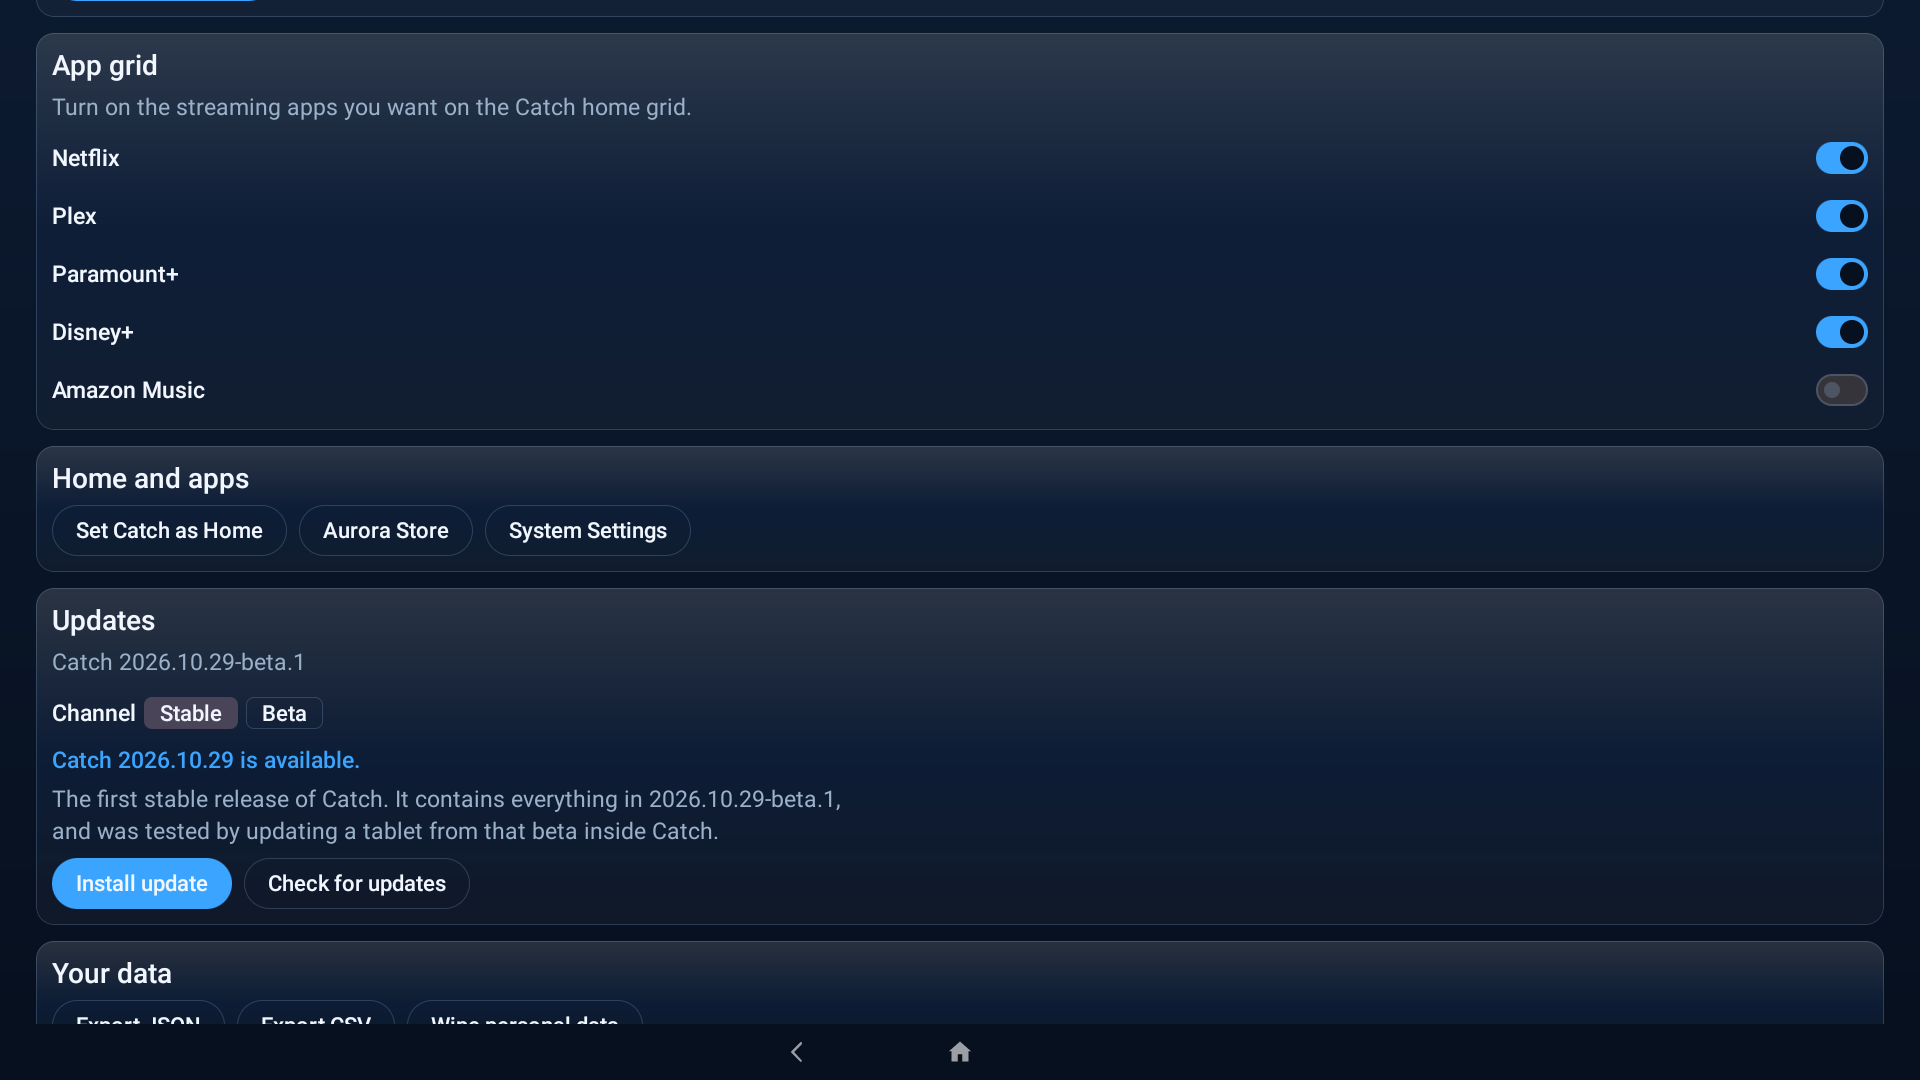
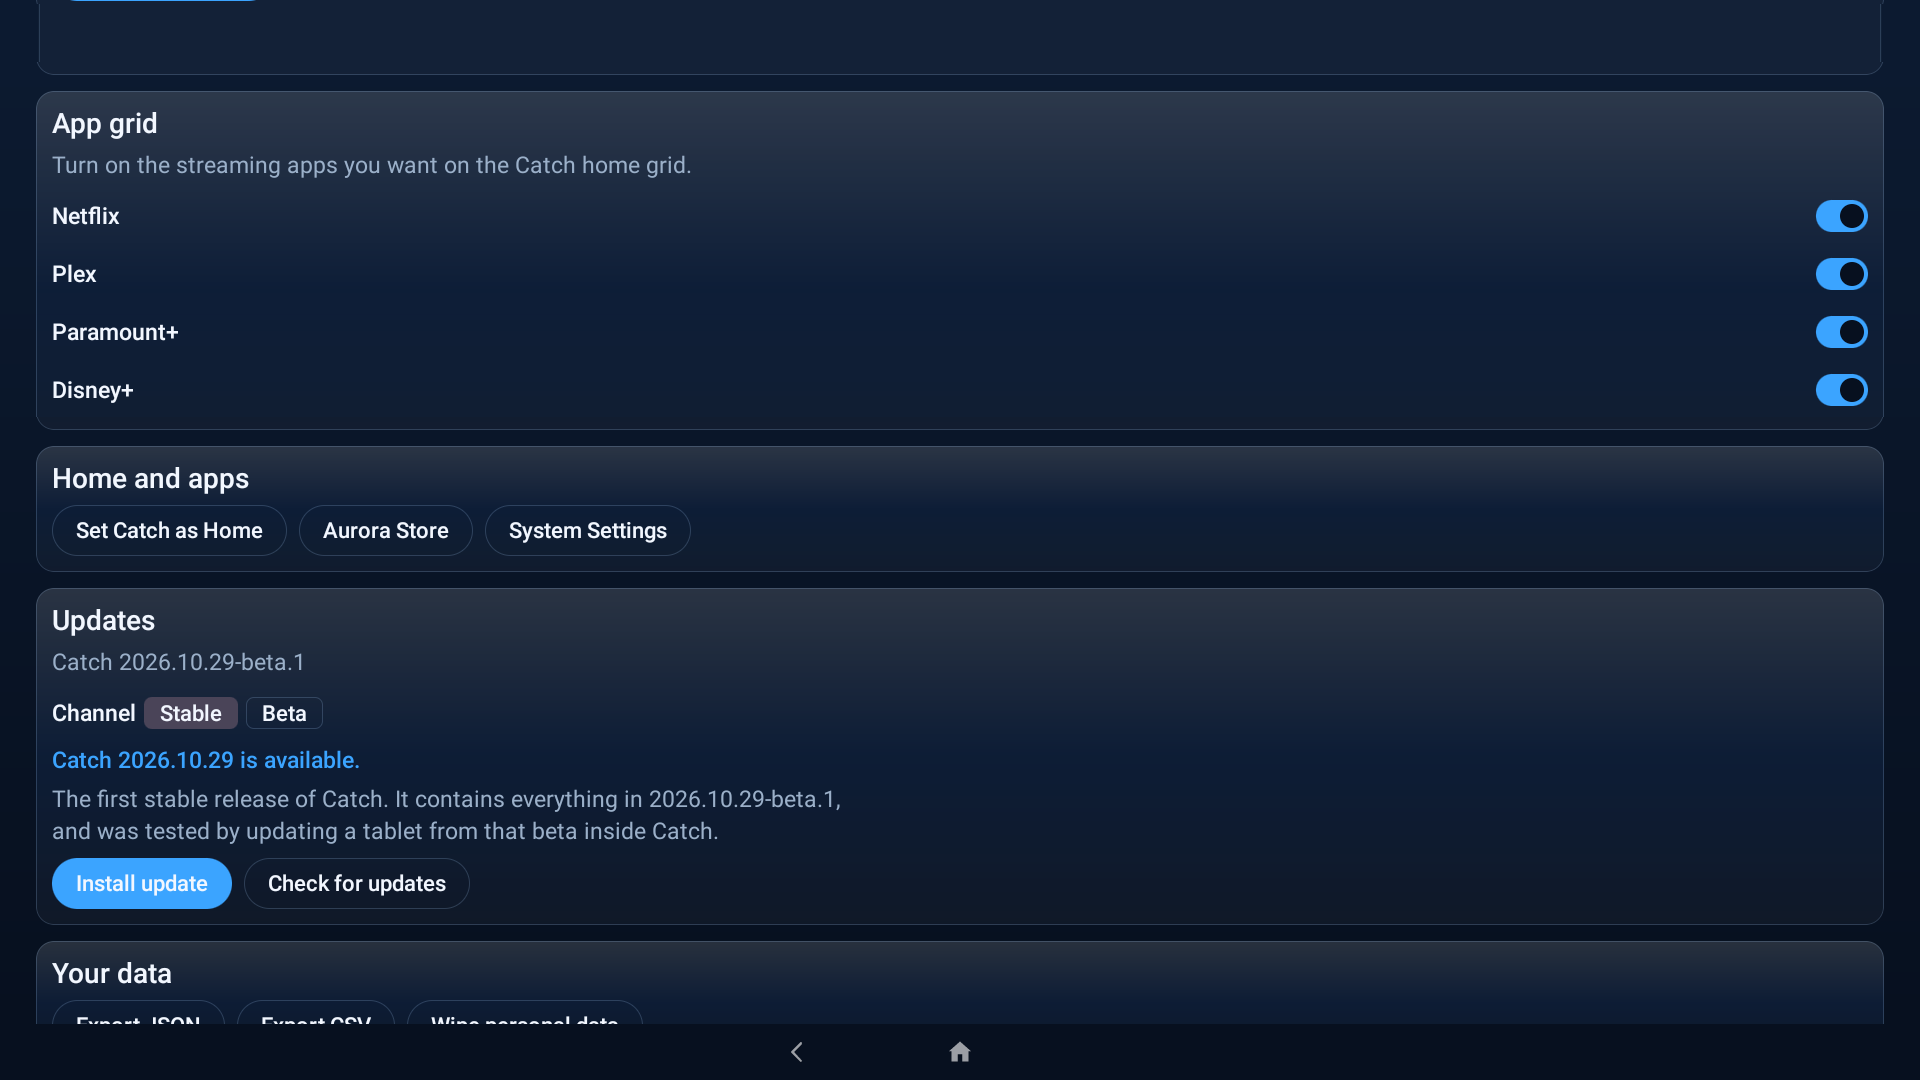
Settings screenshot without Amazon Music; changelog for 2026.10.29.3

diff --git a/CHANGELOG.md b/CHANGELOG.md
@@ -6,6 +6,10 @@ the section that matches the tag as the release notes.
 
 ## [Unreleased]
 
+## [2026.10.29.3]
+
+Everything in 2026.10.29.3-beta.1.
+
 ## [2026.10.29.3-beta.1]
 
 ### Removed
